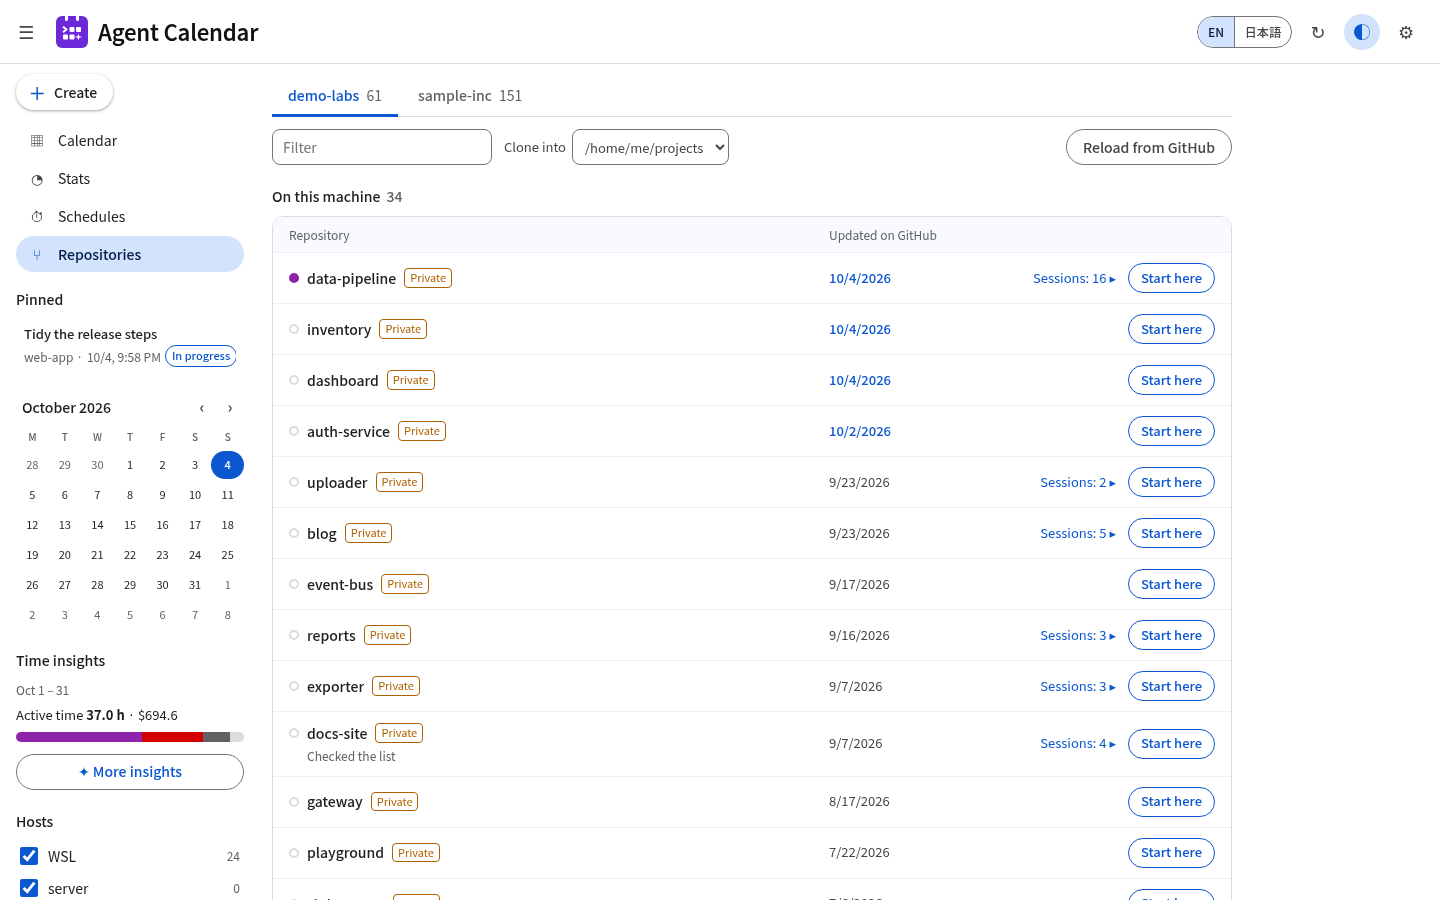
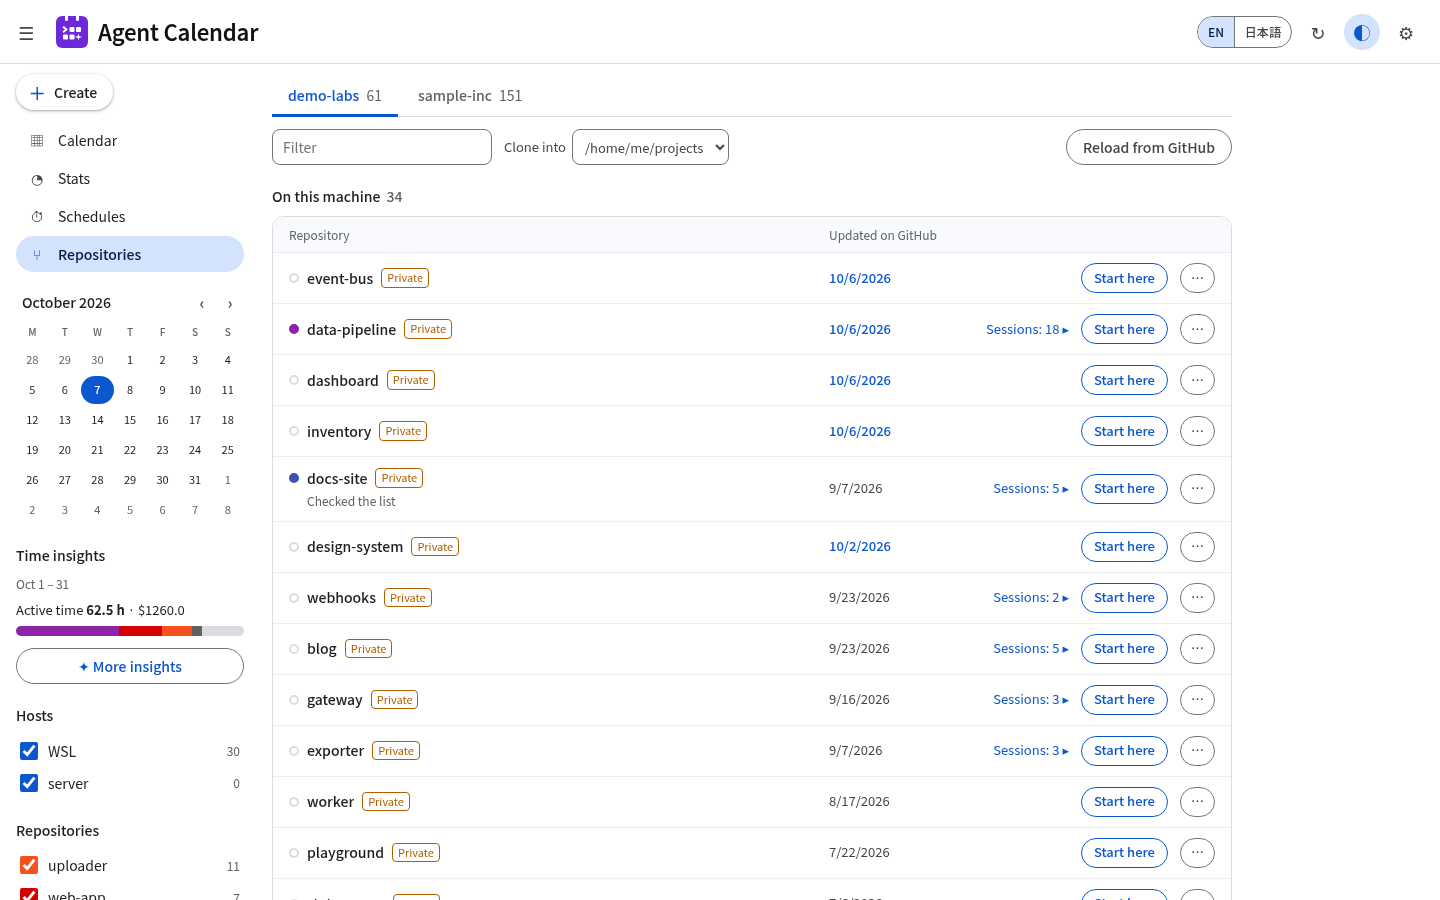
README の画面を撮り直し、0.1.1〜0.1.6 で増えた機能の説明を足す
- 画面を全部撮り直す（タブで並べた詳細・完了にする・リポジトリの ⋯ メニュー・集計の日の切り替えが写る）。変更の画面は全画面で、追加と削除が両方出るコミットにする
- 会話・予定・残タスクの画面を足す
- 詳細のタブと幅の変更、中断、ここで始めるの出発点と worktree、リポジトリの片付けメニュー、画像の比較を説明に足す
- 確かめた Claude Code の版を 2.1.292 にする

diff --git a/README.ja.md b/README.ja.md
@@ -17,18 +17,22 @@
 
 - **カレンダー**: 日・週・月の表示を Google カレンダー風に。ホストとリポジトリで絞り込める
 - **セッションの詳細**: 要約（やったこと、完了／途中／相談のみ、残っていること）、本体・サブエージェント・advisor 別の費用、
-  セッション中に自分が入れた git のコミット、会話の履歴。「今すぐ要約」で好きなときに要約できる
+  セッション中に自分が入れた git のコミット、会話の履歴、GitHub 風の差分で見る変更（画像は変更前と変更後を並べる）。「今すぐ要約」で好きなときに要約でき、
+  「完了にする」で完了の印を付けられる。詳細は右のパネルの上にタブで開き、＋で残したタブは並べて切り替えられる。
+  パネルの端をドラッグすると幅を変えられる
 - **集計**: 案件ごとの作業時間・セッション数・費用を日・週・月で。リポジトリと案件の対応は画面で選ぶ。
   その下に、ボタンで作って保存する期間の要約と、同じ期間の残タスク（要約が途中のものと、完了以外で残っていることが
   書かれているもの）を並べ、開く・完了にするができる
 - **続き**: Claude Code・Codex のセッションに画面から続きの指示を出す（読むだけ／ファイルの編集まで／自動判定を選ぶ）。
-  Claude が許可の要るコマンドを使うときは、画面に許可・拒否の確認が出る。
+  Claude が許可の要るコマンドを使うときは、画面に許可・拒否の確認が出る。動いている指示は「中断」で止められる（1 回の指示は最長 60 分）。
   Claude Code のセッションは Remote Control で裏に再開もできる。`claude --resume` / `codex resume` のコマンドもコピーできる
 - **予定**: 決めたディレクトリで Claude Code か Codex に指示を実行させる。1 回だけ・曜日指定・時間帯の中で N 分ごと、
   別の git worktree で動かすこともできる。結果はカレンダーに出る
 - **リポジトリ**: 組織を選ぶと、その組織の GitHub のリポジトリと手元の clone（設定したフォルダの直下を `origin` で突き合わせ）、
   最後に作業した日、GitHub の最終更新日が並ぶ。扱う組織は設定で選んだものだけ。手元にあればそこで Claude Code か Codex の
-  新しいセッションを始められ、無ければ clone できる。`gh` のログインを使う
+  新しいセッションを始められ（モデルを選び、`origin/main` などから切った新しい worktree か、すでにある worktree で作業する）、
+  無ければ clone できる。リポジトリごとの ⋯ のメニューから、GitHub からの fetch と、終わった worktree・ローカルのブランチの
+  削除ができる。`gh` のログインを使う
 - **ピン留め**: 進めている会話をピン留めすると、サイドバーの上に並ぶ
 - **スクリーンショット**: 指示に画像を貼り付け・ドロップで付けられる（PNG・JPEG・GIF・WebP、5 枚まで、1 枚 5MB まで）
 - **別のマシン**: `share` / `remote add` で、別のマシンのセッションを HTTPS（証明書の固定と合言葉）で取り込む
@@ -40,9 +44,13 @@
 
 | セッションの詳細 | 変更 |
 |---|---|
-| ![セッションの要約・費用・コミット・会話](docs/images/session-ja.png) | ![セッションの変更を GitHub 風の差分で見る](docs/images/changes-ja.png) |
+| ![セッションの要約。2 つのセッションをタブで開いている](docs/images/session-ja.png) | ![セッションで入れたコミットを GitHub 風の差分で見る](docs/images/changes-ja.png) |
 | **リポジトリ** | **集計** |
 | ![GitHub の組織のリポジトリと手元の clone](docs/images/repos-ja.png) | ![案件ごとの作業時間と API 単価で換算した費用](docs/images/stats-ja.png) |
+| **会話** | **予定** |
+| ![画面からセッションに続きの指示を送る](docs/images/conversation-ja.png) | ![平日の朝に別の worktree で動かす予定](docs/images/schedules-ja.png) |
+| **残タスク** | |
+| ![週の要約と残っているセッション](docs/images/todo-ja.png) | |
 
 画面はスクショ用の表示で撮っているので、名前や文章は作り物です。
 
@@ -131,7 +139,7 @@ agent-calendar service install [--port 23848] [--no-summarize] [--summary-lang e
 ## 対応状況
 
 agent-calendar は、安定した API として公開されていない記録の形と CLI のコマンド（`~/.claude/projects`、`claude agents --json`、
-`claude respawn`、`~/.codex/sessions`）に依存しています。**Claude Code 2.1.288** と **Codex CLI 0.154.0** の Linux（WSL2）で
+`claude respawn`、`~/.codex/sessions`）に依存しています。**Claude Code 2.1.292** と **Codex CLI 0.154.0** の Linux（WSL2）で
 確かめています。macOS 版はまだ確かめていません。新しい版で動かなくなったら、版番号を添えて issue を立ててください。
 
 ## よくある質問

diff --git a/README.md b/README.md
@@ -18,21 +18,25 @@ Everything runs on your machine. The page is served on `127.0.0.1` only.
 
 - **Calendar** – day, week and month views in a Google Calendar–style layout. Filter by host and repository.
 - **Session details** – summary (what was done, done / in progress / discussion, what is left), cost split into
-  agent / subagents / advisor, your git commits made during the session, and the conversation history.
-  Summarize a session on demand with *Summarize now*.
+  agent / subagents / advisor, your git commits made during the session, the conversation history, and the changes
+  as a GitHub-style diff (images before and after, side by side). Summarize a session on demand with *Summarize now*, or mark it done with *Mark done*.
+  Details open in tabs at the top of the right panel: keep a tab with ＋ to have several sessions side by side, and drag
+  the panel's edge to make it wider.
 - **Stats** – active time, session count and cost per project for a day, week or month. You assign repositories
   to projects in the page. Below it, a summary of the period that you write with a button and that is kept, and
   what is left to do in that period: sessions in progress, or not done with something left in their summary, which you
   can open or mark done.
 - **Continue** – send the next instruction to a Claude Code or Codex session from the page (read-only, allowed
   to edit, or Claude's auto mode). When Claude needs approval for a command, the page asks you to allow or deny it.
-  You can also resume a Claude Code session in the background with Remote Control, or copy the
+  *Stop* stops an instruction that is running; an instruction runs for up to 60 minutes. You can also resume a Claude Code session in the background with Remote Control, or copy the
   `claude --resume` / `codex resume` command.
 - **Schedules** – run a prompt with Claude Code or Codex in a chosen directory once, on chosen weekdays, or every
   N minutes within a time window, optionally in a separate git worktree. Results show up on the calendar.
 - **Repositories** – pick a GitHub organization (only the ones you list in Settings) and see its repositories next to
   your local clones (matched by `origin` in the folders you list), when you last worked in each, and when it was last
-  updated on GitHub. Start a new Claude Code or Codex session in a clone, or clone a missing one. Uses your `gh` login.
+  updated on GitHub. Start a new Claude Code or Codex session in a clone (choose the model, and work in a new worktree
+  cut from `origin/main` or another branch, or in a worktree that already exists), or clone a missing one. The ⋯ menu
+  of each repository fetches from GitHub and removes finished worktrees and local branches. Uses your `gh` login.
 - **Pins** – pin the conversations you are working on; they stay at the top of the sidebar.
 - **Screenshots** – paste or drop images (PNG, JPEG, GIF, WebP; up to 5, 5 MB each) into an instruction.
 - **Other machines** – collect sessions from another machine over HTTPS (pinned certificate and token) with
@@ -45,9 +49,13 @@ Everything runs on your machine. The page is served on `127.0.0.1` only.
 
 | Session details | Changes |
 |---|---|
-| ![Summary, cost, commits and the conversation of a session](docs/images/session-en.png) | ![A GitHub-style diff of the session's changes](docs/images/changes-en.png) |
+| ![Summary of a session, with two sessions open in tabs](docs/images/session-en.png) | ![A GitHub-style diff of a commit made in the session](docs/images/changes-en.png) |
 | **Repositories** | **Stats** |
 | ![Repositories of your GitHub organizations next to local clones](docs/images/repos-en.png) | ![Active time and API-price cost per project](docs/images/stats-en.png) |
+| **Conversation** | **Schedules** |
+| ![Send the next instruction to a session from the page](docs/images/conversation-en.png) | ![A schedule that runs on weekday mornings in a separate worktree](docs/images/schedules-en.png) |
+| **Left to do** | |
+| ![The summary of the week and the sessions left to do](docs/images/todo-en.png) | |
 
 The screenshots are taken in screenshot mode, so names and text are sample content.
 
@@ -139,7 +147,7 @@ change the hours and intervals from the settings in the page. The summary langua
 
 agent-calendar depends on transcript formats and CLI commands that are not documented as stable APIs
 (`~/.claude/projects`, `claude agents --json`, `claude respawn`, `~/.codex/sessions`). Tested with
-**Claude Code 2.1.288** and **Codex CLI 0.154.0** on Linux (WSL2). The macOS build is not tested yet.
+**Claude Code 2.1.292** and **Codex CLI 0.154.0** on Linux (WSL2). The macOS build is not tested yet.
 If a newer version breaks something, please open an issue with the version numbers.
 
 ## FAQ
